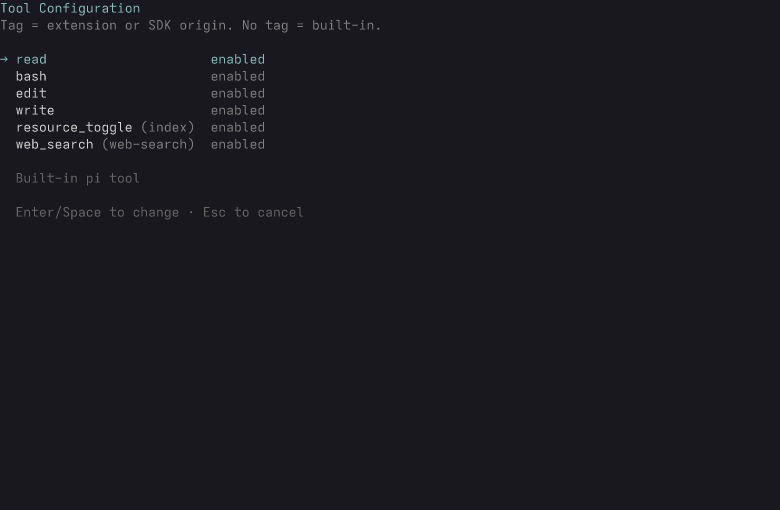
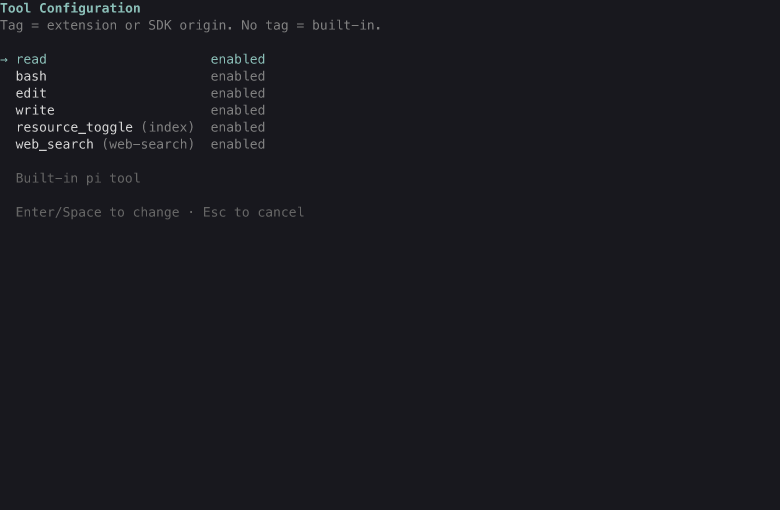
Fix the screenshot pipeline's cross-machine byte stability (PR #79 review)
- Render with the committed TTFs: use the files' real family name
  (MesloLGLDZ Nerd Font Mono) in the SVG, pass font file paths (not
  buffers) to resvg with system fonts disabled, and pin COLORTERM
  before pi's theme loader picks the color mode
- Register the mock provider in the codegraph capture so the
  No-models-available banner (with the machine's own path) never
  reaches the screen
- Add seam-3 content assertions for every capture, run by the
  pipeline itself, and a golden test proving the committed font
  files are what rasterizes
- Stub fd/rg on the capture PATH so pi's not-found startup warnings
  stop depending on the rendering machine
- Keep the codegraph index build off fast-init, whose journal-mode
  switch races on slow filesystems
- Clip resource rows by visible width, not raw slice, so styled rows
  keep their characters on narrow terminals

Re-rendered and re-blessed all 14 goldens; verified byte-identical
renders on the host and in a clean node:24 container (no Nerd
fonts), and a second local run with zero diff.

diff --git a/tests/screenshots/golden.test.ts b/tests/screenshots/golden.test.ts
@@ -8,7 +8,8 @@
  *
  * The text assertions pin the content of each capture, so a silently
  * broken view cannot be re-blessed into the goldens without a visible
- * diff in the test output.
+ * diff in the test output. The font test proves the committed TTFs are
+ * what the renderer rasterizes, not a font the machine happens to have.
  */
 import { afterAll, beforeAll, describe, expect, it } from "vitest";
 import { mkdirSync, readFileSync, rmSync } from "node:fs";
@@ -16,8 +17,16 @@ import { dirname, join } from "node:path";
 import { fileURLToPath } from "node:url";
 import { applyEnvPins, LOOK, WORK_ROOT } from "../../scripts/screenshots/look.mjs";
 import { CAPTURES, type CaptureContext, type CaptureDefinition } from "../../scripts/screenshots/definitions.mjs";
+import { EXPECTED_LINES } from "../../scripts/screenshots/expected.mjs";
 import { captureComponentBytes } from "../../scripts/screenshots/offscreen.mjs";
-import { renderScreenToPng, screenToText } from "../../scripts/screenshots/render-png.mjs";
+import {
+	gridToSvg,
+	renderScreenToPng,
+	renderScreenToPngWithoutFontFiles,
+	resvgOptions,
+	screenToGrid,
+	screenToText,
+} from "../../scripts/screenshots/render-png.mjs";
 import { captureTerminal } from "../../scripts/screenshots/terminal-capture.mjs";
 import { startMockGistServer, type MockGistServer } from "../../scripts/screenshots/mock-gist.mjs";
 
@@ -27,63 +36,8 @@ const repoRoot = join(here, "..", "..");
 const captures: CaptureDefinition[] = CAPTURES;
 const fastCaptures = captures.filter((def) => def.kind === "offscreen" || def.fast === true);
 
-/** The lines every capture must show (compared trimmed, in any order). */
-const EXPECTED_LINES: Record<string, string[]> = {
-	"quota-detail": [
-		"ChatGPT plan quota",
-		"Plan: plus",
-		"Account: julian@example.com",
-		"5h  42%   resets 19:00 (in 5h)",
-		"7d  18%   resets Thu 14:00 (in 7d)",
-		"Fetched: 13:56:00 (4m ago)",
-		"Press Enter or Esc to close",
-	],
-	"quota-footer": ["GPT 5h 42% · 7d 18%"],
-	"usage-tui": [
-		"pi usage",
-		"b week   w all   g provider+model   s time   c full   p none   m none",
-		"9 events · all time",
-		"TOTAL                                 1325      200      100      625       50     2900    $0.10",
-	],
-	"usage-cli": [
-		"2026-09 · week · provider+model · sort: time · 6 events",
-		"TOTAL                                      1,325          300          625        2,300        $0.08",
-	],
-	"initial-context": [
-		"initial context",
-		"ctx: 1.3K (1.0%) - uses: 30d",
-		"1,272  100.0%  1.0%",
-		"375.0/u",
-	],
-	tools: [
-		"Tool Configuration",
-		"Tag = extension or SDK origin. No tag = built-in.",
-		"→ read                     enabled",
-		"resource_toggle (index)  enabled",
-		"web_search (web-search)  enabled",
-	],
-	resources: [
-		"pi resources",
-		"Extensions",
-		">  [x] codegraph  global  /home/julian/.pi/agent/extensions/codegraph/index.",
-		"[ ] usage  global  /home/julian/.pi/agent/extensions/usage/index.ts",
-		"[x] lint-gate  project  /home/julian/acme/.pi/extensions/lint-gate/index.",
-		"Skills",
-		"Themes",
-	],
-	"sync-view": [
-		"pi sync",
-		"pi sync status (gist 9f2c41ab)",
-		"ahead 0, behind 0",
-		"in sync",
-	],
-	"sync-status": ["pi sync status (gist 9f2c41ab)", "ahead 0, behind 0", "in sync"],
-	"pruning-settings": [
-		"pruning: enabled=true, minResultTokens=1000, protectCurrentTurn=true",
-		"state: no outputs pruned yet; last gate: none",
-	],
-	"compress-status": ["3 spans, 12.4k saved"],
-};
+/** One fixed screen the font test renders. */
+const FONT_CHECK_BYTES = "\x1b[2J\x1b[HFont family check: ABCdefgh 0123456789";
 
 /** PNG header: 8-byte signature, IHDR length, "IHDR", then width and height. */
 function pngSize(png: Buffer): { width: number; height: number } {
@@ -138,6 +92,33 @@ describe("docs screenshot pipeline (ADR 0017)", () => {
 			expect(width, `${def.id} width`).toBe(780);
 			expect(height, `${def.id} height`).toBe(510);
 		}
+	});
+
+	// The render must depend on the committed TTFs: the same screen rendered
+	// without font files (system fonts disabled, so resvg falls back to its
+	// built-in font) must differ, and the committed-font render must carry
+	// real ink. If the committed files were silently ignored, the no-files
+	// and machine-font renders would match and this test would fail.
+	it("renders the pinned screen with the committed font files, not a machine font", { timeout: 120_000 }, async () => {
+		const withFiles = Buffer.from(await renderScreenToPng(FONT_CHECK_BYTES, LOOK));
+		const withoutFiles = Buffer.from(await renderScreenToPngWithoutFontFiles(FONT_CHECK_BYTES, LOOK));
+		expect(
+			withFiles.equals(withoutFiles),
+			"rendered identically with and without the committed font files: the provided TTFs are not the rendered font",
+		).toBe(false);
+		// The committed-font render must actually draw glyphs: count the
+		// non-background pixels of the rasterized SVG.
+		const grid = await screenToGrid(FONT_CHECK_BYTES, { cols: LOOK.cols, rows: LOOK.rows });
+		const svg = gridToSvg(grid, LOOK);
+		const mod = await import("@resvg/resvg-js");
+		const Resvg = mod.Resvg ?? mod.default?.Resvg;
+		const pixels: Buffer = new Resvg(svg, resvgOptions(LOOK)).render().pixels;
+		const [r, g, b] = [1, 3, 5].map((i) => Number.parseInt(LOOK.background.slice(i, i + 2), 16));
+		let ink = 0;
+		for (let i = 0; i < pixels.length; i += 4) {
+			if (pixels[i] !== r || pixels[i + 1] !== g || pixels[i + 2] !== b) ink++;
+		}
+		expect(ink, "the pinned font drew no visible ink").toBeGreaterThan(100);
 	});
 
 	for (const def of fastCaptures) {

diff --git a/extensions/resource-toggle/tui.ts b/extensions/resource-toggle/tui.ts
@@ -8,7 +8,7 @@
  * toggle writes the settings at once; one reload runs on close if anything
  * changed. Package resources appear dimmed and read-only.
  */
-import { matchesKey } from "@earendil-works/pi-tui";
+import { matchesKey, truncateToWidth } from "@earendil-works/pi-tui";
 import type { TUI } from "@earendil-works/pi-tui";
 import type { Theme } from "@earendil-works/pi-coding-agent";
 import {
@@ -230,7 +230,9 @@ export function createResourceToggleTui(deps: ResourceTuiDeps) {
         const name = row.resource.displayName + (row.packageRow ? " (package)" : "");
         const nameText = i === cursor ? theme.bold(name) : name;
         const body = `${cursorMark} ${renderCheckbox(row)} ${nameText}  ${row.resource.scope === "user" ? "global" : "project"}  ${row.resource.path}${suffix(row)}`;
-        const clipped = body.slice(0, width);
+        // The styled rows carry ANSI codes, so a raw slice would clip by
+        // byte length and eat visible characters on narrow terminals.
+        const clipped = truncateToWidth(body, width);
         lines.push(row.inherited || row.packageRow ? theme.fg("dim", clipped) : clipped);
       }
       if (top + rendered < visible.length || top > 0) {

diff --git a/docs/adr/0017-docs-screenshots-render-by-capture-pipeline.md b/docs/adr/0017-docs-screenshots-render-by-capture-pipeline.md
@@ -25,6 +25,15 @@ and fails when a committed Screenshot no longer matches.
 - The terminal font TTF and golden PNG files are checked into the repo, and
   the render pins grid size, theme, and font, so local and CI renders are
   byte-identical.
+- The font pin is exact at the rasterizer boundary: the SVG font-family is
+  the family name inside the committed TTFs' name tables, resvg loads only
+  the committed file paths with system fonts disabled, and the theme color
+  mode is pinned by environment (COLORTERM) before pi's theme loader runs.
+  A golden test proves the committed TTFs are what rasterizes: the same
+  screen rendered without the font files must differ.
+- The real-pi captures run with stub `fd` and `rg` binaries on PATH so pi's
+  "not found" startup warnings - which depend on what the rendering machine
+  has installed - never reach the screen.
 - Adding a Screenshot is a Capture definition (extension, view, capture
   method, fixture); the pipeline does not change.
 - A UI change that alters a view's appearance is a capture re-run, and CI
